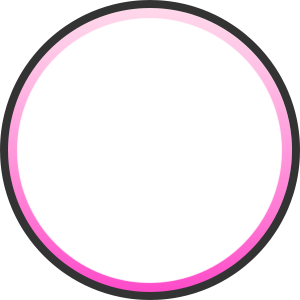
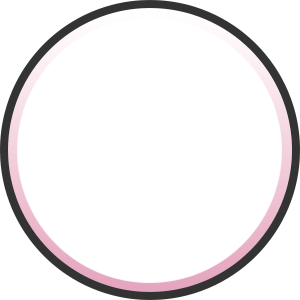
Add files via upload

Changed region(s): [[0.0, 0.0, 0.99, 0.99]]

diff --git a/index.html b/index.html
@@ -74,7 +74,7 @@
         }
 
         .button {
-            background-color: rgb(255, 75, 202); /* 按钮颜色 */
+            background-color: rgb(228, 164, 190); /* 按钮颜色 */
             border: none;
             color: white;
             padding: 10px 20px;
@@ -89,7 +89,7 @@
         }
 
         .button:hover {
-            background-color: #ff4bca; /* 悬停状态颜色 */
+            background-color: #e4a4be; /* 悬停状态颜色 */
         }
 
         .button:disabled {
@@ -102,7 +102,7 @@
         }
 
         .upload-label {
-            background-color: rgb(255, 75, 202); /* 按钮颜色 */
+            background-color: rgb(228, 164, 190); /* 按钮颜色 */
             color: white;
             padding: 10px 20px;
             text-align: center;
@@ -115,7 +115,7 @@
         }
 
         .upload-label:hover {
-            background-color: #ff4bca; /* 悬停状态颜色 */
+            background-color: #e4a4be; /* 悬停状态颜色 */
         }
     </style>
 </head>
